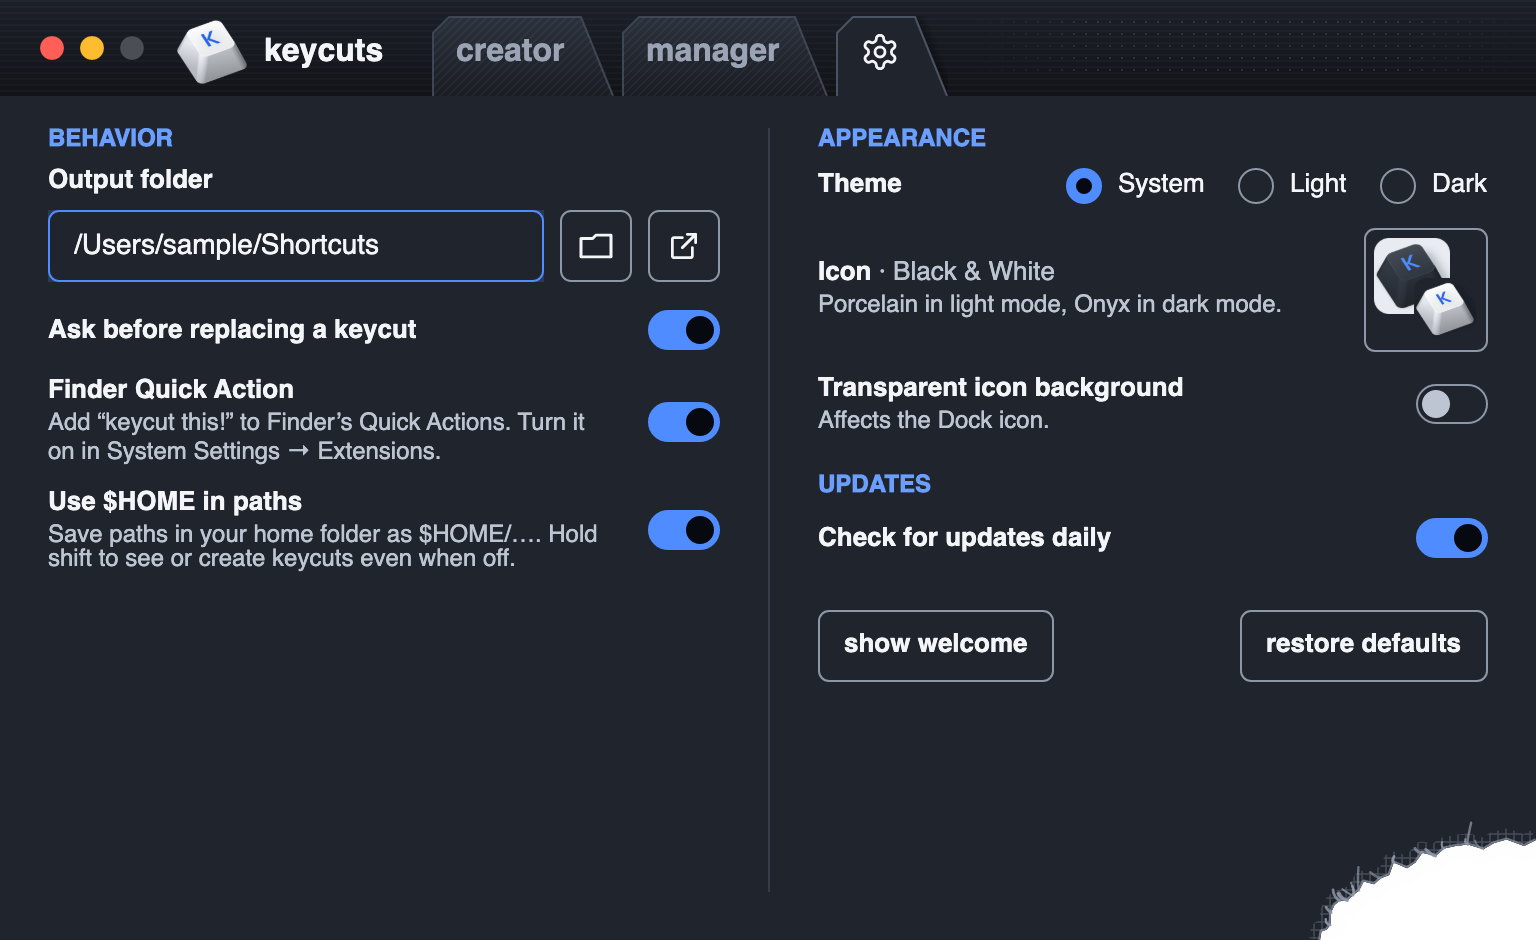
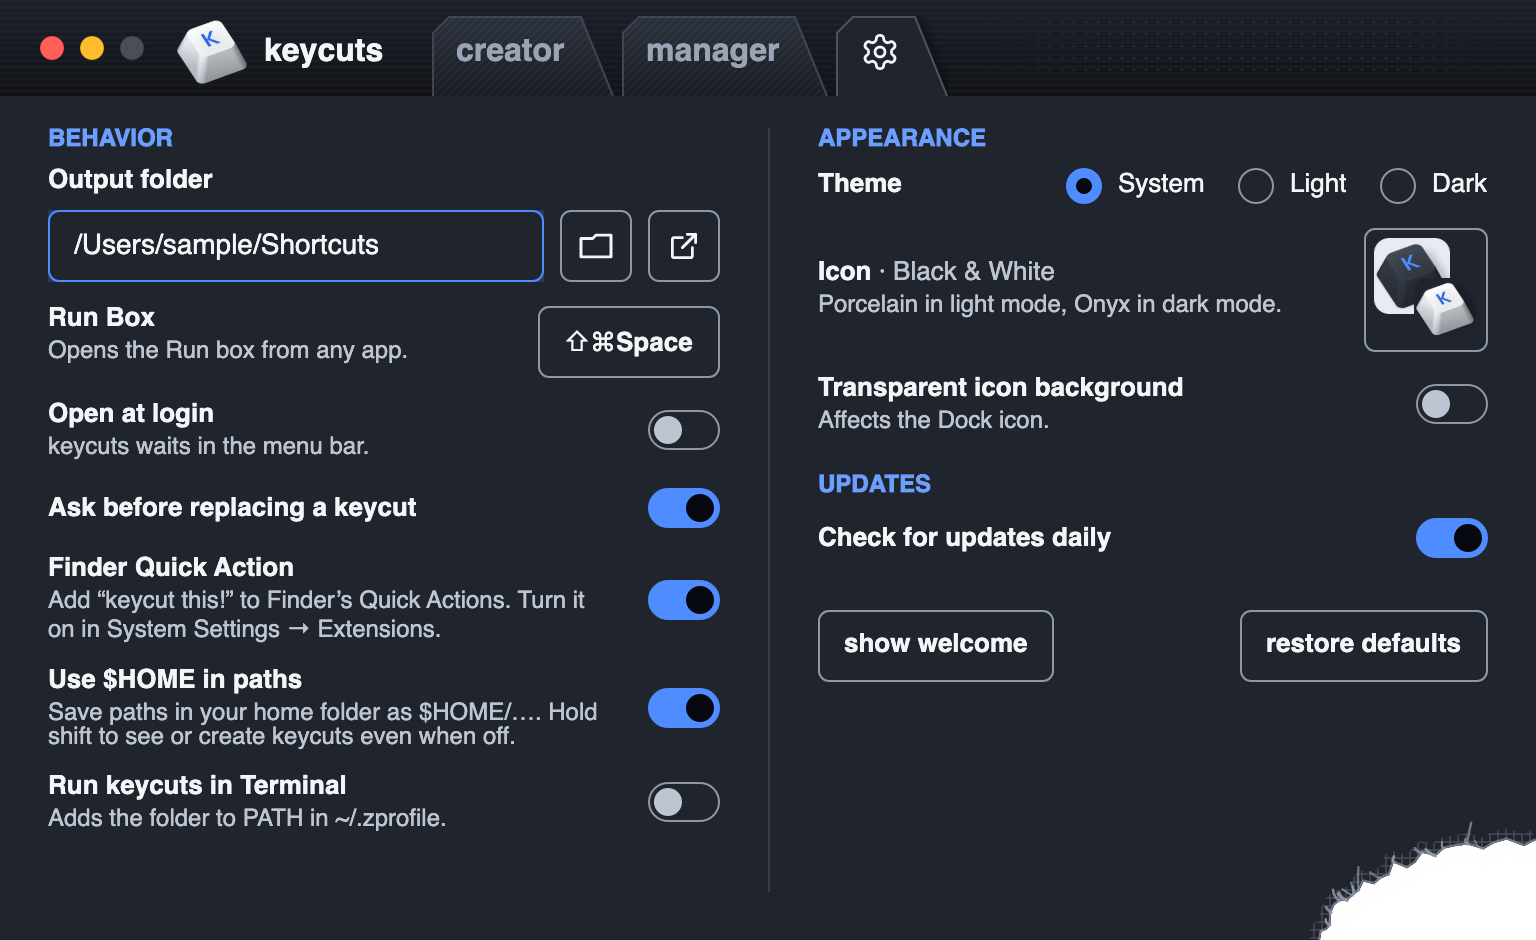
Screenshots: the macOS Settings pictures show the Run box, Open at login and Terminal rows (#318)
ScreenshotTests gives Settings fakes for the three seams (a default Run box
shortcut, a login item that is off, a shell path over an empty temp home), so
nothing touches the registry, login items or a shell profile. Only the macOS
Settings PNGs changed; the Windows ones need a Windows machine.

diff --git a/keycuts.App.Tests/ScreenshotTests.cs b/keycuts.App.Tests/ScreenshotTests.cs
@@ -103,6 +103,52 @@ namespace keycuts.Tests
             public FolderSaveResult SaveOutputFolder(string folder) => new(true, null);
         }
 
+        /// <summary>The Run box shortcut at its default, so Settings shows the row; nothing is registered or stored.</summary>
+        sealed class SampleRunBoxShortcut : IRunBoxShortcut
+        {
+            public RunBoxHotkey? Current => RunBoxHotkey.DefaultForThisSystem;
+
+            public int Status => 0;
+
+            public bool UsesWindowsKeys => OperatingSystem.IsWindows();
+
+            public int Apply(RunBoxHotkey? hotkey) => 0;
+
+            public void Pause(bool paused)
+            {
+            }
+        }
+
+        /// <summary>Open at login, off, so Settings shows the row; nothing is registered.</summary>
+        sealed class SampleLoginItem : ILoginItem
+        {
+            public bool IsOn => false;
+
+            public bool NeedsApproval => false;
+
+            public string? Set(bool on) => null;
+        }
+
+        /// <summary>
+        /// Settings as the real app shows it: the Run box, Open at login and (macOS) Run keycuts in Terminal rows are each offered only
+        /// when their seam is set (#318). The shell path reads an empty temp home, so it never touches the real profile.
+        /// </summary>
+        static SettingsViewModel NewSettings(UpdateChecker updates)
+        {
+            var home = Directory.CreateTempSubdirectory("keycuts-screenshot-home").FullName;
+
+            return new SettingsViewModel(
+                new SampleStore(),
+                directoryExists: _ => true,
+                updates: updates,
+                shellPath: OperatingSystem.IsMacOS() ? new MacShellPath(home, "/bin/zsh", "/usr/bin:/bin", Array.Empty<string>()) : null)
+            {
+                ShowVersionRow = false,
+                RunBoxShortcut = new SampleRunBoxShortcut(),
+                LoginItem = new SampleLoginItem()
+            };
+        }
+
         [AvaloniaFact]
         public void RenderTheReadmeScreenshots()
         {
@@ -144,7 +190,7 @@ namespace keycuts.Tests
             var updates = UpdateFakes.Checker(new FakeReleaseSource(), new FakeUpdateState());
             var shell = new ShellViewModel(
                 () => Task.FromResult(7),
-                settingsFactory: () => new SettingsViewModel(new SampleStore(), directoryExists: _ => true, updates: updates) { ShowVersionRow = false },
+                settingsFactory: () => NewSettings(updates),
                 checkName: TestNameChecks.NoWarnings);
             var window = new MainWindow(shell);
             window.Show();

diff --git a/README.md b/README.md
@@ -70,7 +70,7 @@ Your keycuts in `~/Shortcuts` stay. The `keycuts` and `keypaste` commands in tha
 
 <picture>
   <source media="(prefers-color-scheme: dark)" srcset="docs/images/settings-dark-mac.png">
-  <img src="docs/images/settings-light-mac.png" alt="Settings on macOS, with Run keycuts in Terminal." width="830">
+  <img src="docs/images/settings-light-mac.png" alt="Settings on macOS, with the Run box shortcut, Open at login and Run keycuts in Terminal." width="830">
 </picture>
 
 </details>
